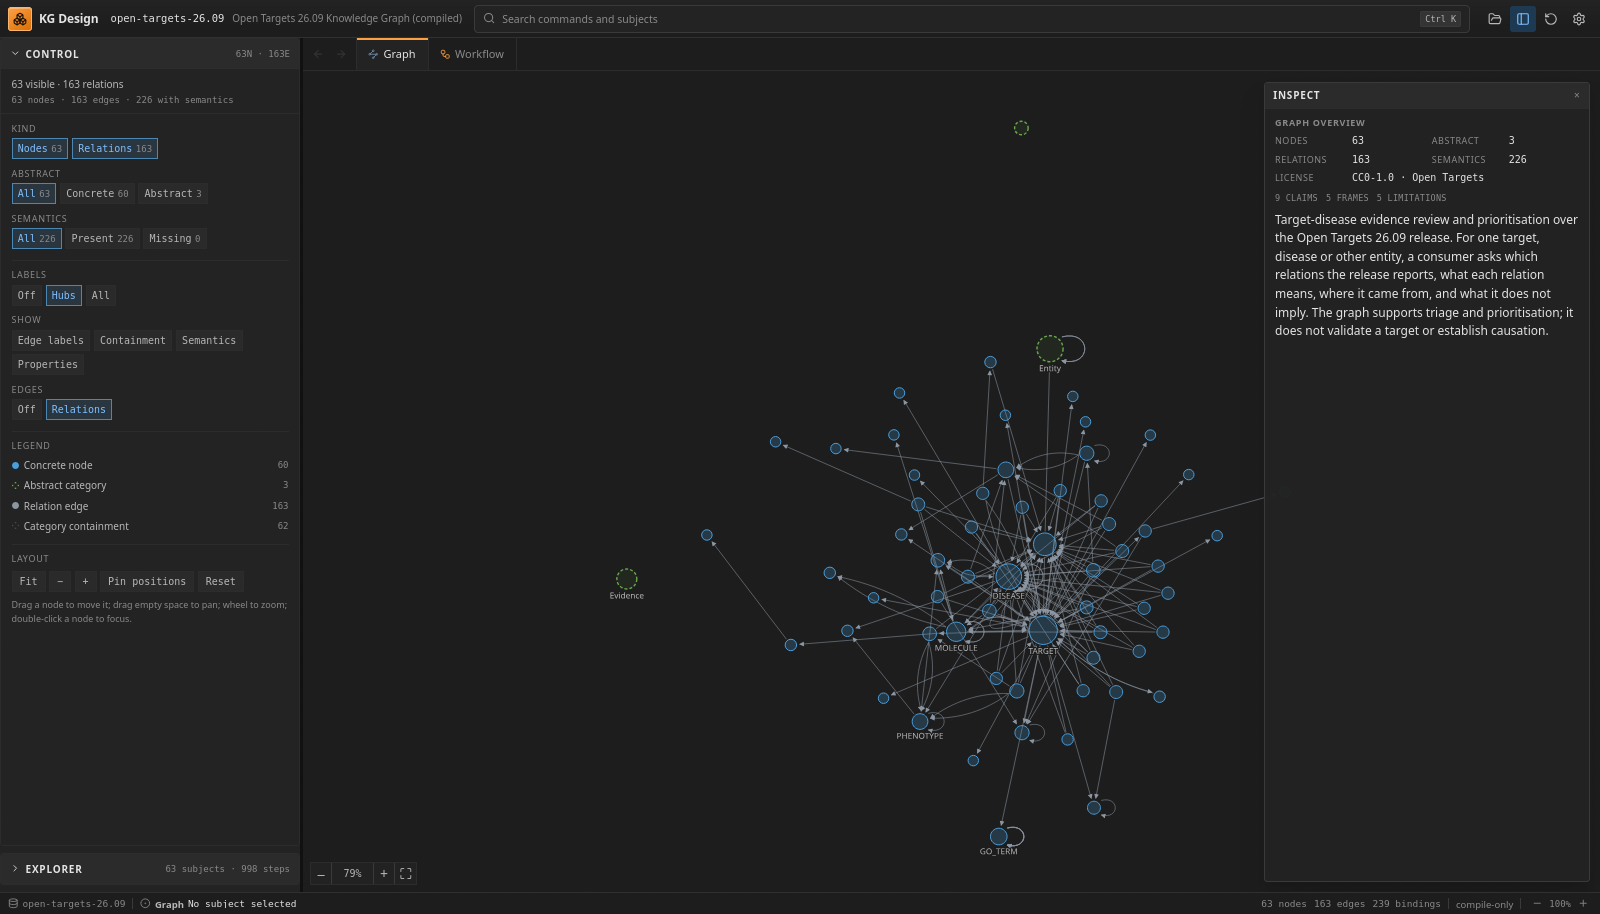
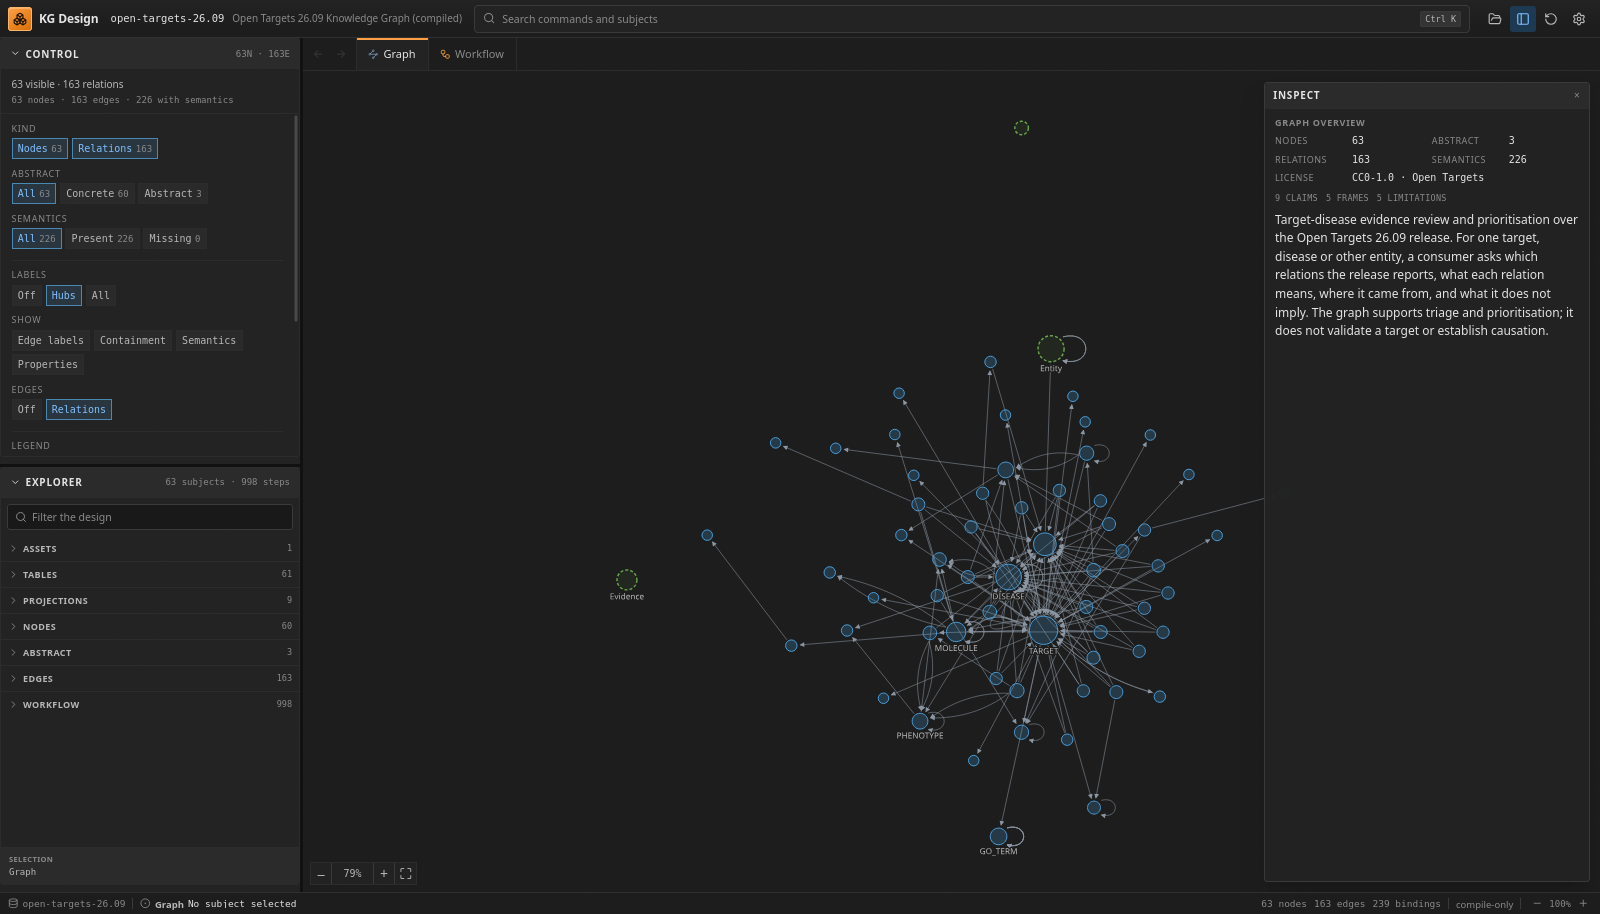
Open both side-bar sections by default

diff --git a/viewer/workbench/SideBar.tsx b/viewer/workbench/SideBar.tsx
@@ -131,7 +131,7 @@ export function SideBar() {
   const { state, actions } = useWorkbench();
   const [open, setOpen] = useState<Record<SectionId, boolean>>({
     control: true,
-    explorer: false,
+    explorer: true,
   });
   const container = useRef<HTMLElement>(null);
   const stats = state.index.stats;

diff --git a/viewer/scripts/verify_design.py b/viewer/scripts/verify_design.py
@@ -643,10 +643,26 @@ def main() -> int:
             ActionChains(driver).send_keys("\ue00c").perform()
             time.sleep(0.4)
 
-            report["checks"]["explorer_closed_initially"] = (
-                expanded().get("sidebar-section-explorer") == "false"
+            report["checks"]["both_sections_open_initially"] = (
+                expanded().get("sidebar-section-control") == "true"
+                and expanded().get("sidebar-section-explorer") == "true"
+            )
+            report["checks"]["sidebar_split_50_50_initially"] = (
+                driver.find_element(
+                    By.CSS_SELECTOR, '[data-testid="sidebar-splitter"]'
+                ).get_attribute("aria-valuenow")
+                == "50"
             )
 
+            # Collapse and reopen Explorer; Control stays open.
+            driver.find_element(
+                By.CSS_SELECTOR, '[data-testid="sidebar-section-explorer"]'
+            ).click()
+            time.sleep(0.4)
+            report["checks"]["explorer_collapses"] = (
+                expanded().get("sidebar-section-explorer") == "false"
+                and expanded().get("sidebar-section-control") == "true"
+            )
             driver.find_element(
                 By.CSS_SELECTOR, '[data-testid="sidebar-section-explorer"]'
             ).click()

diff --git a/viewer/HIERARCHY.md b/viewer/HIERARCHY.md
@@ -39,9 +39,9 @@ Inspector window; there is no bottom panel.
 | **Control** | controls for the active view: graph canvas filters, labels, Show controls, legend and fit/zoom/pin; workflow component, instruction and text filters. |
 | **Explorer** | everything in the design: assets, nodes, abstract categories, edges and their properties; workflow components and their step catalogue. A context menu jumps graph subjects to the Graph and workflow items to the Workflow. A selected workflow component expands its step group; an explicit collapse sticks until the active subject changes. Tables and projections are outline groups; each row opens its own **Table** or **Projection** document. |
 
-The sections are collapsible and independent: both may be expanded at once.
-Each expanded body sits directly below its own header. When both are open, a
-horizontal separator sets their shares and the split is persisted. The open
+The sections are collapsible and independent: both are expanded by default at
+a 50/50 split. Each expanded body sits directly below its own header. When both
+are open, a horizontal separator sets their shares and the split is persisted. The open
 sections are user state: opening or activating a tab never opens, closes or
 switches them, and opening a section never changes the active document or its
 editor. Control follows the active view; Explorer always states the whole

diff --git a/viewer/screenshots/README.md b/viewer/screenshots/README.md
@@ -5,7 +5,7 @@ They are review aids, not golden images.
 
 | File | What it shows |
 | --- | --- |
-| `01-topology.png` | **Control** and **Explorer** are collapsible side-bar headers; the pinned **Graph** and **Workflow** documents share one tab strip. The Graph owns its floating **Inspect** window, and the graph overview states the effective CC0 licence. |
+| `01-topology.png` | **Control** and **Explorer** are open together by default at a 50/50 split; the pinned **Graph** and **Workflow** documents share one tab strip. The Graph owns its floating **Inspect** window, and the graph overview states the effective CC0 licence. |
 | `02-workflow-map.png` | The pinned **Workflow** document as a compositor-style component graph with no title banner; zoom and expansion controls float over the canvas. Explorer keeps the whole design, including explicit **Tables** and **Projections** groups, and the workflow step catalogue. |
 | `03-step-detail.png` | A single click on a workflow step opened a step document tab; its banner leads with a large step logo, and each section header carries its concept mark. Explorer keeps the workflow list. |
 | `04-inspect.png` | `target` inspected in the Graph document with its effective licence in Inspect. The tab strip still has only the pinned Graph and Workflow documents. |

diff --git a/viewer/README.md b/viewer/README.md
@@ -26,9 +26,9 @@ The tab strip is the document axis:
   preview tab; a double click, **Open Detail**, a right-click **Go to Detail**
   or the command palette opens a permanent tab.
 
-There is no mode switch. Control and Explorer are side-bar sections, both may be
-expanded at once, and their separator is adjustable. The Control body shows the
-controls of the active view; a subject document has none. Opening or resizing a
+There is no mode switch. Control and Explorer are side-bar sections, both open
+by default at a 50/50 split, and their separator is adjustable. The Control body
+shows the controls of the active view; a subject document has none. Opening or resizing a
 section changes the side bar, not the active document or its editor.
 
 The viewer is a design reader, not an audit or review tool: there are no

diff --git a/viewer/DESIGN_LANGUAGE.md b/viewer/DESIGN_LANGUAGE.md
@@ -134,8 +134,8 @@ so an asset is the same green database mark wherever it appears.
 
 - The shell owns side-bar visibility, width and the split between its sections.
   A document never resizes the workbench.
-- Both side-bar sections may be expanded at once. Each body sits directly below
-  its header; the separator between the two open sections is adjustable. The
+- Both side-bar sections start expanded, split 50/50. Each body sits directly
+  below its header; the separator between the two open sections is adjustable. The
   title-bar toggle and `Cmd/Ctrl+B` change side-bar visibility, not purpose.
 - Geometry is one workbench value per snapshot. Opening a side-bar section or a
   tab never changes it.
